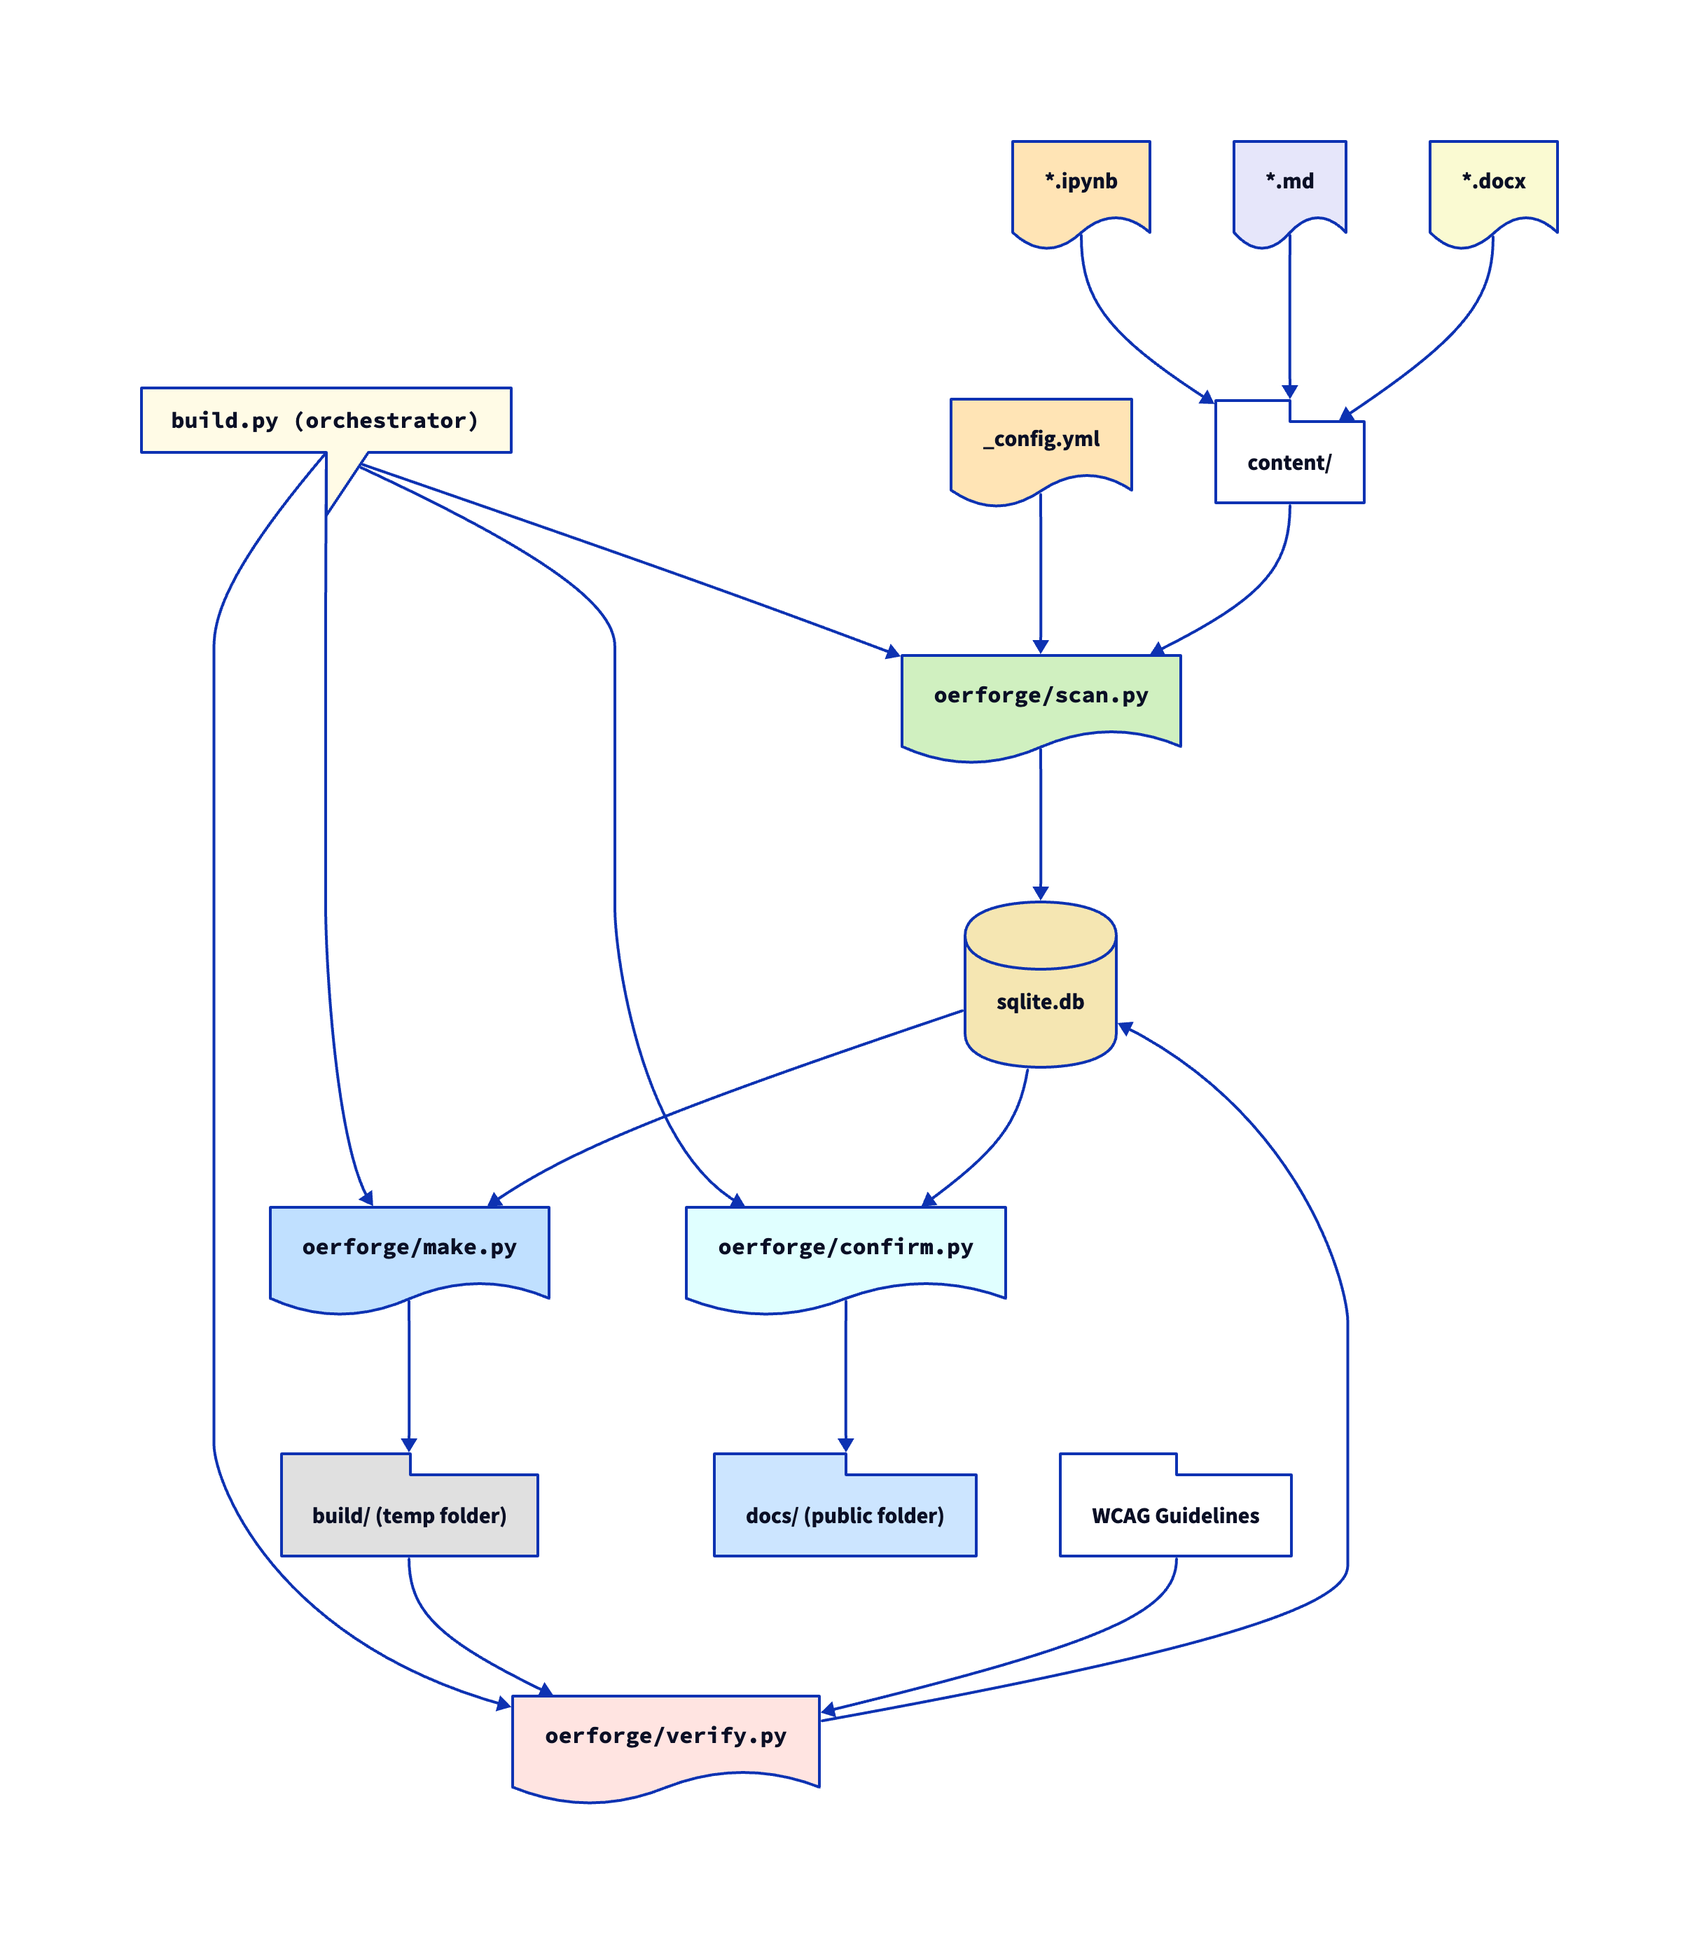
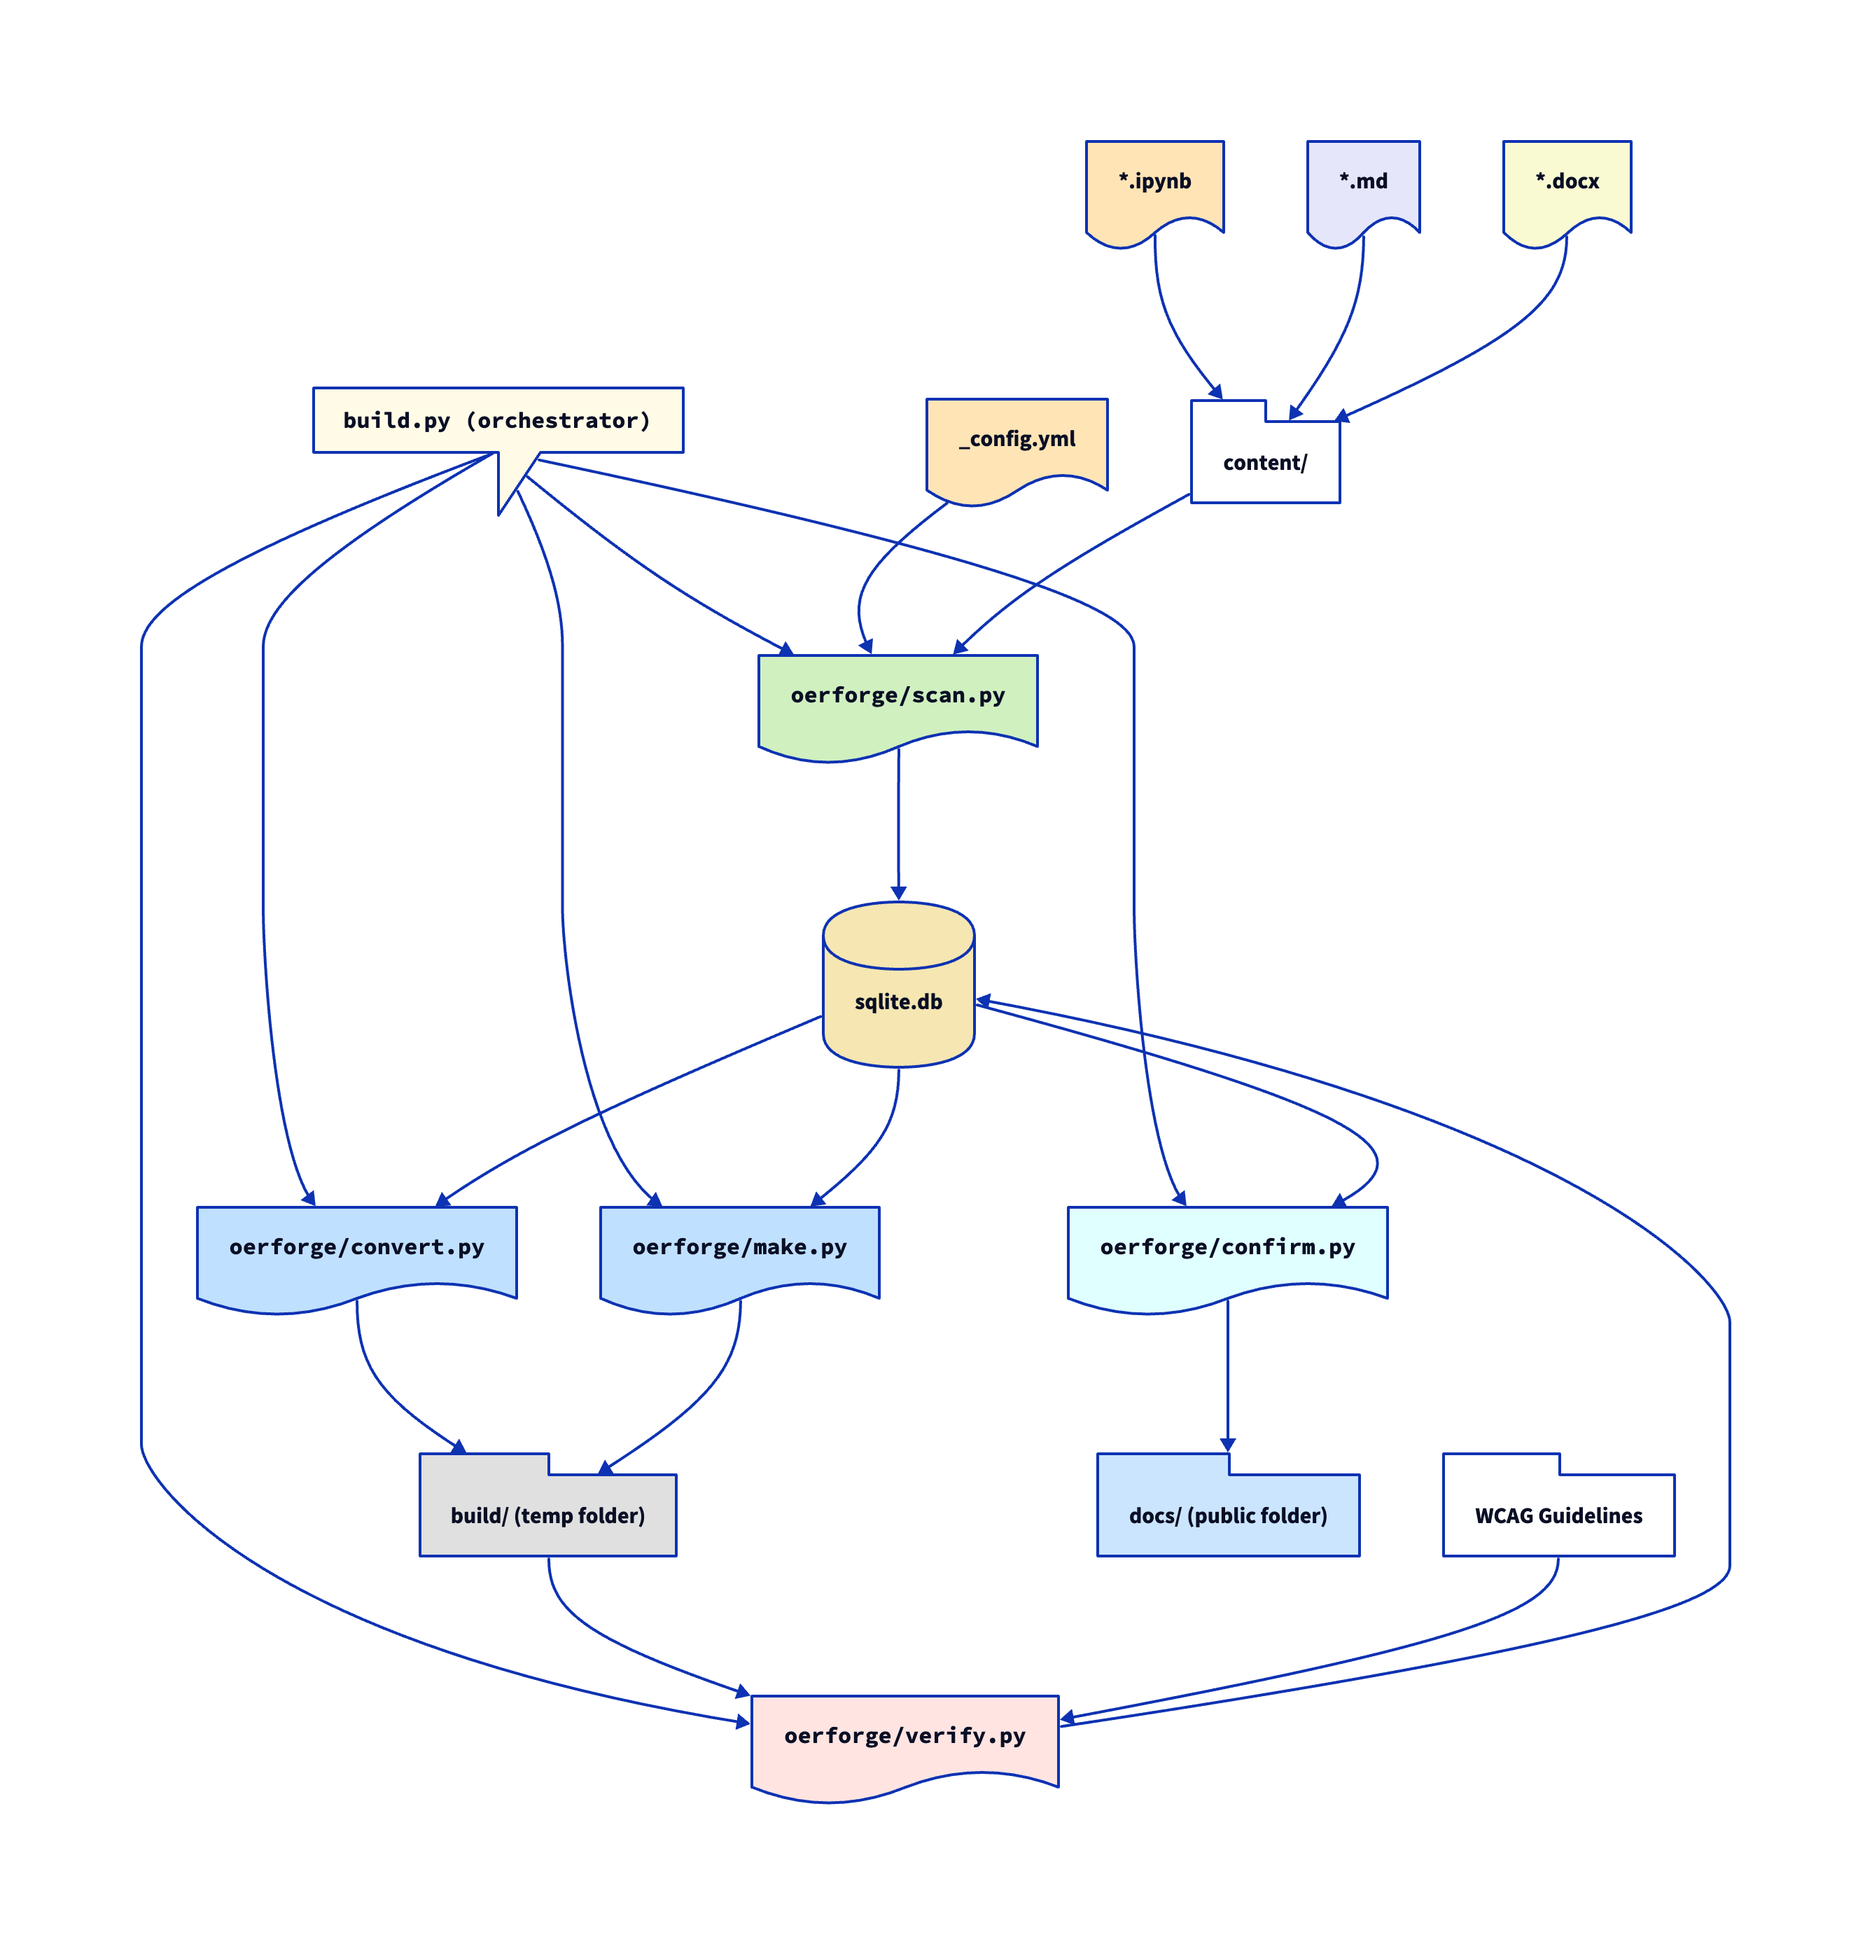
starting build testing

diff --git a/build.py b/build.py
@@ -1,14 +1,6 @@
-from oerforge.scan import (
-    initialize_database,
-    populate_site_info,
-    populate_toc,
-    populate_page_info_from_config,
-    print_table,
-    scan_all_images
-)
+from oerforge.convert import ipynb_to_md
 
 def main():
-
     initialize_database()
     print("[INFO] Database initialized.")
 
@@ -25,6 +17,13 @@ def main():
     print("[INFO] Starting image scan")
     print_table('page_images')
 
+    # Test ipynb_to_md after database is populated
+    test_ipynb = "content/notebooks/week1/example.ipynb"  # Use a real notebook path
+    try:
+        md_path = ipynb_to_md(test_ipynb, None)
+        print(f"[TEST] Converted to markdown: {md_path}")
+    except Exception as e:
+        print(f"[TEST] Conversion failed: {e}")
 
 if __name__ == "__main__":
     main()

diff --git a/README.md b/README.md
@@ -4,9 +4,10 @@
 
 OERForge is a package with four modules (`oerforge/`):
 - `scan.py` - uses `_config.yml` and the files present in `content/` to populate an sqlite database with site and file info.
-- `make.py` - draws from `sqlite.db` to convert files in `content/` to other forms based on the source file and builds a temporary site in `build`.
+- `convert.py` - draws from `sqlite.db` to convert files in `content/` and places them in `build/files` preserving the user's file structure
+- `make.py` - draws from `sqlite.db` to builds a temporary WCAG compliant site in `build`.
 - `verify.py` - reviews `build` in the context of WCAG Guidelines to generate a report and update pages on the site indicating level of compliance.
-- `confirm.py` - integrates the information into the site and rebuilds as a public site in `docs/`
+- `confirm.py` - integrates the WCAG reporting information into the site and rebuilds as a public site in `docs/`
 
 ### Orchestration
 
